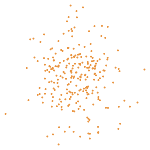
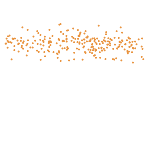
Fixed scales

diff --git a/client/regression/regression.html b/client/regression/regression.html
@@ -14,57 +14,58 @@
       </h2>
       <div class="legend-z">Next 12 Months Forecast</div>
     </div>
-    <svg style="overflow: visible;">
-      <!-- <path class="uline animated fadeIn" d="M0  {{pred.a1}}  L150 {{pred.a2}}  L150 {{pred.ra2}}  L0  {{pred.ra1}}  Z" fill="#9e9e9e"/>
-      <path class="uline animated fadeIn" d="M0  {{pred.b1}}  L150 {{pred.b2}}  L150 {{pred.rb2}}  L0  {{pred.rb1}}  Z" fill="#bababa"/>
-      <path class="uline animated fadeIn" d="M0  {{pred.c1}}  L150 {{pred.c2}}  L150 {{pred.rc2}}  L0  {{pred.rc1}}  Z" fill="#d2d2d2"/>
-      <path class="uline animated fadeIn" d="M0  {{pred.d1}}  L150 {{pred.d2}}  L150 {{pred.rd2}}  L0  {{pred.rd1}}  Z" fill="#e5e5e5"/>
-      <path class="uline animated fadeIn" d="M0  {{pred.e1}}  L150 {{pred.e2}}  L150 {{pred.re2}}  L0  {{pred.re1}}  Z" fill="#f5f5f5"/>
-
-      <path class="uline animated fadeIn" d="M0  {{pred.aa1}} L150 {{pred.aa2}} L150 {{pred.raa2}} L0  {{pred.raa1}} Z" fill="#9e9e9e"/>
-      <path class="uline animated fadeIn" d="M0  {{pred.bb1}} L150 {{pred.bb2}} L150 {{pred.rbb2}} L0  {{pred.rbb1}} Z" fill="#bababa"/>
-      <path class="uline animated fadeIn" d="M0  {{pred.cc1}} L150 {{pred.cc2}} L150 {{pred.rcc2}} L0  {{pred.rcc1}} Z" fill="#d2d2d2"/>
-      <path class="uline animated fadeIn" d="M0  {{pred.dd1}} L150 {{pred.dd2}} L150 {{pred.rdd2}} L0  {{pred.rdd1}} Z" fill="#e5e5e5"/>
-      <path class="uline animated fadeIn" d="M0  {{pred.ee1}} L150 {{pred.ee2}} L150 {{pred.ree2}} L0  {{pred.ree1}} Z" fill="#f5f5f5"/> -->
-
-      <line x1="0%"   x2="0%"   y1="5%" y2="100%" stroke="#bababa" stroke-width="1" />
-      <line x1="20%"  x2="20%"  y1="5%" y2="100%" stroke="#bababa" stroke-width="1" stroke-dasharray="1,2"/>
-      <line x1="40%"  x2="40%"  y1="5%" y2="100%" stroke="#bababa" stroke-width="1" stroke-dasharray="1,2"/>
-      <line x1="60%"  x2="60%"  y1="5%" y2="100%" stroke="#bababa" stroke-width="1" stroke-dasharray="1,2"/>
-      <line x1="80%"  x2="80%"  y1="5%" y2="100%" stroke="#bababa" stroke-width="1" stroke-dasharray="1,2"/>
-
-      <!-- <line x1="-3%" x2="100%" y1="0%"   y2="0%"   stroke="#BDBDBD" stroke-width="1" stroke-dasharray="1,2"/> -->
-      <line x1="-3%" x2="100%" y1="25%"  y2="25%"  stroke="#a4a4a4" stroke-width="1" stroke-dasharray="1,2"/>
-      <line x1="-3%" x2="100%" y1="50%"  y2="50%"  stroke="#a4a4a4" stroke-width="1" stroke-dasharray="1,2"/>
-      <line x1="-3%" x2="100%" y1="75%"  y2="75%"  stroke="#a4a4a4" stroke-width="1" stroke-dasharray="1,2"/>
-      <!-- <line x1="-3%" x2="100%" y1="100%" y2="100%" stroke="#BDBDBD" stroke-width="1" stroke-dasharray="1,2"/> -->
-
-      <path class="uline animated fadeIn"   d="M0 {{pred.upr1}} L150 {{pred.upr2}}" stroke="red"/>
-      <path class="uline animated fadeIn"   d="M0 {{pred.lwr1}} L150 {{pred.lwr2}}" stroke="red"/>
-      <image class="animated fadeIn" xlink:href="figs/{{advice.name}}" style="opacity: 0.75;" x="0" y="0"/>
-      <image class="animated fadeIn" xlink:href="figs/{{news.name}}"   style="opacity: 0.75;" x="0" y="0"/>
-      <image class="animated fadeIn" xlink:href="figs/{{media.name}}"  style="opacity: 0.75;" x="0" y="0"/>
-      <image class="animated fadeIn" xlink:href="figs/{{index.name}}"  style="opacity: 0.75;" x="0" y="0"/>
-      {{#if pred.show}}
-      <line class="uline" x1="0%"          x2="100%"         y1="{{pred.y}}%" y2="{{pred.y}}%" stroke="#6e6e6e" stroke-width="1"/>
-      <line class="sline" x1="{{pred.c}}%" x2="{{pred.c}}%"  y1="10%"          y2="100%"        stroke="#6e6e6e" stroke-width="1"/>
-      <text class="svg-text" x="103%" y="{{pred.y}}%"  fill="#808080">${{pred.value}}</text>
-      <path class="uline animated fadeIn"   d="M0 {{pred.upr}} L150 {{pred.lwr}}" stroke="#6e6e6e"  stroke-width="2"/>
-      <circle class="main-circle" cx="{{pred.c}}%" cy="{{pred.y}}%" r="3" fill="#4d4d4d"/>
-      {{/if}}
-    </svg>
-
     <svg class="svgbig"  style="overflow: visible;">
+      <svg style="overflow: visible;">
+        {{#if pred.show}}
+        <path class="uline animated fadeIn" d="M0  {{pred.ra1}}  L150 {{pred.ra2}}  L150 {{pred.a2}}  L0  {{pred.a1}}  Z" fill="#9e9e9e"/>
+        <path class="uline animated fadeIn" d="M0  {{pred.rb1}}  L150 {{pred.rb2}}  L150 {{pred.b2}}  L0  {{pred.b1}}  Z" fill="#bababa"/>
+        <path class="uline animated fadeIn" d="M0  {{pred.rc1}}  L150 {{pred.rc2}}  L150 {{pred.c2}}  L0  {{pred.c1}}  Z" fill="#d2d2d2"/>
+        <path class="uline animated fadeIn" d="M0  {{pred.rd1}}  L150 {{pred.rd2}}  L150 {{pred.d2}}  L0  {{pred.d1}}  Z" fill="#e5e5e5"/>
+        <path class="uline animated fadeIn" d="M0  {{pred.re1}}  L150 {{pred.re2}}  L150 {{pred.e2}}  L0  {{pred.e1}}  Z" fill="#f5f5f5"/>
+
+        <path class="uline animated fadeIn" d="M0  {{pred.aa1}} L150 {{pred.aa2}} L150 {{pred.raa2}} L0  {{pred.raa1}} Z" fill="#9e9e9e"/>
+        <path class="uline animated fadeIn" d="M0  {{pred.bb1}} L150 {{pred.bb2}} L150 {{pred.rbb2}} L0  {{pred.rbb1}} Z" fill="#bababa"/>
+        <path class="uline animated fadeIn" d="M0  {{pred.cc1}} L150 {{pred.cc2}} L150 {{pred.rcc2}} L0  {{pred.rcc1}} Z" fill="#d2d2d2"/>
+        <path class="uline animated fadeIn" d="M0  {{pred.dd1}} L150 {{pred.dd2}} L150 {{pred.rdd2}} L0  {{pred.rdd1}} Z" fill="#e5e5e5"/>
+        <path class="uline animated fadeIn" d="M0  {{pred.ee1}} L150 {{pred.ee2}} L150 {{pred.ree2}} L0  {{pred.ree1}} Z" fill="#f5f5f5"/>
+        {{/if}}
+        <!-- <line x1="0%"   x2="0%"   y1="5%" y2="100%" stroke="#bababa" stroke-width="1" /> -->
+        <line x1="20%"  x2="20%"  y1="5%" y2="100%" stroke="#bababa" stroke-width="1" stroke-dasharray="1,2"/>
+        <line x1="40%"  x2="40%"  y1="5%" y2="100%" stroke="#bababa" stroke-width="1" stroke-dasharray="1,2"/>
+        <line x1="60%"  x2="60%"  y1="5%" y2="100%" stroke="#bababa" stroke-width="1" stroke-dasharray="1,2"/>
+        <line x1="80%"  x2="80%"  y1="5%" y2="100%" stroke="#bababa" stroke-width="1" stroke-dasharray="1,2"/>
+
+        <!-- <line x1="-3%" x2="100%" y1="0%"   y2="0%"   stroke="#BDBDBD" stroke-width="1" stroke-dasharray="1,2"/> -->
+        <line x1="-3%" x2="100%" y1="25%"  y2="25%"  stroke="#a4a4a4" stroke-width="1" stroke-dasharray="1,2"/>
+        <line x1="-3%" x2="100%" y1="50%"  y2="50%"  stroke="#a4a4a4" stroke-width="1" stroke-dasharray="1,2"/>
+        <line x1="-3%" x2="100%" y1="75%"  y2="75%"  stroke="#a4a4a4" stroke-width="1" stroke-dasharray="1,2"/>
+        <!-- <line x1="-3%" x2="100%" y1="100%" y2="100%" stroke="#BDBDBD" stroke-width="1" stroke-dasharray="1,2"/> -->
+        {{#if pred.show}}
+        <!-- <path class="uline animated fadeIn"   d="M0 {{pred.upr1}} L150 {{pred.upr2}}" stroke="red"/>
+        <path class="uline animated fadeIn"   d="M0 {{pred.lwr1}} L150 {{pred.lwr2}}" stroke="red"/> -->
+        <image class="animated fadeIn" xlink:href="figs/{{advice.name}}" style="opacity: 0.75;" x="0" y="0"/>
+        <image class="animated fadeIn" xlink:href="figs/{{news.name}}"   style="opacity: 0.75;" x="0" y="0"/>
+        <image class="animated fadeIn" xlink:href="figs/{{media.name}}"  style="opacity: 0.75;" x="0" y="0"/>
+        <image class="animated fadeIn" xlink:href="figs/{{index.name}}"  style="opacity: 0.75;" x="0" y="0"/>
+
+        <line class="uline" x1="0%"          x2="100%"         y1="{{pred.y}}%" y2="{{pred.y}}%" stroke="#6e6e6e" stroke-width="1"/>
+        <line class="sline" x1="{{pred.c}}%" x2="{{pred.c}}%"  y1="0%"          y2="100%"        stroke="#6e6e6e" stroke-width="1"/>
+        <text class="svg-text" x="100%" y="{{pred.y}}%"  fill="#808080">${{pred.value}}</text>
+        <path class="uline animated fadeIn"   d="M0 {{pred.lwr}} L150 {{pred.upr}}" stroke="#6e6e6e"  stroke-width="2"/>
+        <circle class="main-circle" cx="{{pred.c}}%" cy="{{pred.y}}%" r="3" fill="#4d4d4d"/>
+        {{/if}}
+      </svg>
       <text x="-2%" y="107%" fill="#808080">0</text>
       <text x="17%" y="107%" fill="#808080">20</text>
       <text x="37%" y="107%" fill="#808080">40</text>
       <text x="57%" y="107%" fill="#808080">60</text>
       <text x="77%" y="107%" fill="#808080">80</text>
       <text x="95%" y="107%" fill="#808080">100</text>
-      <text x="-28%"  y="6.5%" fill="#808080">${{pred.q1}}</text>
-      <text x="-24%"  y="27%"  fill="#808080">{{pred.q2}}</text>
-      <text x="-24%"  y="52%"  fill="#808080">{{pred.q3}}</text>
-      <text x="-24%"  y="77%"  fill="#808080">{{pred.q4}}</text>
+
+      <text x="-16%" y="3%"  fill="#808080">$200</text>
+      <text x="-14%" y="27%" fill="#808080">150</text>
+      <text x="-14%" y="52%" fill="#808080">100</text>
+      <text x="-10%" y="77%" fill="#808080">50</text>
     </svg>
     <!-- <div class="legend-y">Stock Price</div> -->
     <div class="legend-x">Market Opinions</div>

diff --git a/client/regression/regression.js b/client/regression/regression.js
@@ -64,6 +64,7 @@ Template.lifequality.helpers({
       n = n+1;
       show = true;
     }
+
     if(Session.get("slider3-on")){
       m1 += stock.m_m1;
       m2 += stock.m_m2;
@@ -76,6 +77,7 @@ Template.lifequality.helpers({
       n = n+1;
       show = true;
     }
+
     if(Session.get("slider4-on")){
       m1 += stock.i_m1;
       m2 += stock.i_m2;
@@ -103,16 +105,20 @@ Template.lifequality.helpers({
     m1 = m1/n;
     m2 = m2/n;
 
-    fit_upr = m1;
-    fit_lwr = (m2 * 1) + m1;
+    fit_upr = (m2 * 1) + m1;
+    fit_lwr = m1;
 
-    var r_lwr1 = lwr_min/5;
-    var r_lwr2 = lwr_max/5;
-    var r_upr1 = upr_min/5;
-    var r_upr2 = upr_max/5;
+    var fit_lwr_pixels = 150-(fit_lwr*150);
+    var fit_upr_pixels = 150-(fit_upr*150);
+
+    var r_lwr1 = (fit_lwr_pixels-lwr_min)/5;
+    var r_lwr2 = (fit_upr_pixels-lwr_max)/5;
+
+    var r_upr1 = (fit_lwr_pixels-upr_min)/5;
+    var r_upr2 = (fit_upr_pixels-upr_max)/5;
 
     y = (m2 * c) + m1;
-    v = (stock.max * y).toFixed(2);
+    v = (200 * y).toFixed(2);
 
     if(y < 0) y = 0;
     if(c < 0) c = 0;
@@ -123,8 +129,8 @@ Template.lifequality.helpers({
     return {
       value: v, // Actual predicted value;
       y: 100 - (y*100), // Uses percentages
-      upr:  150 - (fit_upr*150), // Frome here, everything uses pixels!
-      lwr:  150 - (fit_lwr*150),
+      upr:  fit_upr_pixels, // Frome here, everything uses pixels!
+      lwr:  fit_lwr_pixels,
       upr1: upr_min,
       upr2: upr_max,
       lwr1: lwr_min,
@@ -135,30 +141,28 @@ Template.lifequality.helpers({
       q3: q3,
       q4: q4,
       q5: q5,
-      show: show
-      //
-      // ra1: 0 + 150-((x*150)),        ra2: 0 + 150-(((y*100)+x)*150),
-      // a1:  r_lwr1   + 150-((x*150)),  a2: r_lwr2  + 150-(((y*100)+x)*150),
-      // rb1: r_lwr1   + 150-((x*150)), rb2: r_lwr2  + 150-(((y*100)+x)*150),
-      // b1:  r_lwr1*2 + 150-((x*150)),  b2: r_lwr2*2 + 150-(((y*100)+x)*150),
-      // rc1: r_lwr1*2 + 150-((x*150)), rc2: r_lwr2*2 + 150-(((y*100)+x)*150),
-      // c1:  r_lwr1*3 + 150-((x*150)),  c2: r_lwr2*3 + 150-(((y*100)+x)*150),
-      // rd1: r_lwr1*3 + 150-((x*150)), rd2: r_lwr2*3 + 150-(((y*100)+x)*150),
-      // d1:  r_lwr1*4 + 150-((x*150)),  d2: r_lwr2*4 + 150-(((y*100)+x)*150),
-      // re1: r_lwr1*4 + 150-((x*150)), re2: r_lwr2*4 + 150-(((y*100)+x)*150),
-      // e1:  r_lwr1*5 + 150-((x*150)),  e2: r_lwr2*5 + 150-(((y*100)+x)*150),
-      //
+      show: show,
+      ra1: fit_lwr_pixels,              ra2: fit_upr_pixels,
+       a1: fit_lwr_pixels - r_upr2,      a2: fit_upr_pixels - r_upr1,
+      rb1: fit_lwr_pixels - r_upr2,     rb2: fit_upr_pixels - r_upr1,
+       b1: fit_lwr_pixels - (r_upr2*2),  b2: fit_upr_pixels - (r_upr1*2),
+      rc1: fit_lwr_pixels - (r_upr2*2), rc2: fit_upr_pixels - (r_upr1*2),
+       c1: fit_lwr_pixels - (r_upr2*3),  c2: fit_upr_pixels - (r_upr1*3),
+      rd1: fit_lwr_pixels - (r_upr2*3), rd2: fit_upr_pixels - (r_upr1*3),
+       d1: fit_lwr_pixels - (r_upr2*4),  d2: fit_upr_pixels - (r_upr1*4),
+      re1: fit_lwr_pixels - (r_upr2*4), re2: fit_upr_pixels - (r_upr1*4),
+       e1: fit_lwr_pixels - (r_upr2*5),  e2: fit_upr_pixels - (r_upr1*5),
       // // Second area
-      // raa1: (150-((x*150))) - 0,        raa2: (150-(((y*100)+x)*150)) - 0,
-      // aa1:  (150-((x*150))) - r_upr1,    aa2: (150-(((y*100)+x)*150)) - r_upr2,
-      // rbb1: (150-((x*150))) - r_upr1,   rbb2: (150-(((y*100)+x)*150)) - r_upr2,
-      // bb1:  (150-((x*150))) - r_upr1*2,  bb2: (150-(((y*100)+x)*150)) - r_upr2*2,
-      // rcc1: (150-((x*150))) - r_upr1*2, rcc2: (150-(((y*100)+x)*150)) - r_upr2*2,
-      // cc1:  (150-((x*150))) - r_upr1*3,  cc2: (150-(((y*100)+x)*150)) - r_upr2*3,
-      // rdd1: (150-((x*150))) - r_upr1*3, rdd2: (150-(((y*100)+x)*150)) - r_upr2*3,
-      // dd1:  (150-((x*150))) - r_upr1*4,  dd2: (150-(((y*100)+x)*150)) - r_upr2*4,
-      // ree1: (150-((x*150))) - r_upr1*4, ree2: (150-(((y*100)+x)*150)) - r_upr2*4,
-      // ee1:  (150-((x*150))) - r_upr1*5,  ee2: (150-(((y*100)+x)*150)) - r_upr2*5
+      raa1: fit_lwr_pixels,              raa2: fit_upr_pixels,
+       aa1: fit_lwr_pixels - r_lwr2,      aa2: fit_upr_pixels - r_lwr1,
+      rbb1: fit_lwr_pixels - r_lwr2,     rbb2: fit_upr_pixels - r_lwr1,
+       bb1: fit_lwr_pixels - (r_lwr2*2),  bb2: fit_upr_pixels - (r_lwr2*2),
+      rcc1: fit_lwr_pixels - (r_lwr2*2), rcc2: fit_upr_pixels - (r_lwr2*2),
+       cc1: fit_lwr_pixels - (r_lwr2*3),  cc2: fit_upr_pixels - (r_lwr2*3),
+      rdd1: fit_lwr_pixels - (r_lwr2*3), rdd2: fit_upr_pixels - (r_lwr2*3),
+       dd1: fit_lwr_pixels - (r_lwr2*4),  dd2: fit_upr_pixels - (r_lwr2*4),
+      ree1: fit_lwr_pixels - (r_lwr2*4), ree2: fit_upr_pixels - (r_lwr2*4),
+       ee1: fit_lwr_pixels - (r_lwr2*5),  ee2: fit_upr_pixels - (r_lwr2*5)
     };
   },
   advice() {

diff --git a/client/regression/regression.css b/client/regression/regression.css
@@ -17,10 +17,11 @@
   font-weight: 300;
   color: #a1a1a1;
   cursor: default;
-  position: absolute;
+  /*position: absolute;*/
   bottom: -30px;
   width: 100%;
   text-align: center;
+  margin-top: 10px;
 }
 
 .lifequality-container .selected-info{
@@ -57,16 +58,19 @@
 
 .lifequality-container {
   font-family: sans-serif;
-  width:  150px;
-  height: 150px;
+  width: 210px;
+  /*height: 150px;*/
   position: relative;
-  margin-top: 80px;
+  /*margin-top: 80px;*/
   cursor: default;
+  display: flex;
+  flex-direction: column;
+  align-items: center;
 }
 
 .lifequality-title {
-  position: absolute;
-  top: -35px;
+  /*position: absolute;
+  top: -35px;*/
   width: 100%;
 }
 
@@ -122,11 +126,12 @@
 
 .lifequality-container svg {
   overflow:  visible;
-  position: absolute;
+  /*position: absolute;
   top:  4px;
-  left: 0;
-  width:  100%;
-  height: 100%;
+  left: 0;*/
+  width:  150px;
+  height: 150px;
+  /*align-self: flex-end;*/
 }
 
 .lifequality-container img {

diff --git a/client/dotplot/dotplot.html b/client/dotplot/dotplot.html
@@ -16,10 +16,10 @@
     <div class="ubar-main"></div>
     <div class="umeter">
       <div class="um q5">$0.00</div>
-      <div class="um q4">{{prediction.q4}}</div>
-      <div class="um q3">{{prediction.q3}}</div>
-      <div class="um q2">{{prediction.q2}}</div>
-      <div class="um q1">{{prediction.q1}}</div>
+      <div class="um q4">50</div>
+      <div class="um q3">100</div>
+      <div class="um q2">150</div>
+      <div class="um q1">200</div>
       <div class="umeter-ticks">
         <div class="utick tick1">.</div>
         <div class="utick tick2">.</div>

diff --git a/client/index.html b/client/index.html
@@ -39,7 +39,7 @@
 <template name="dummy"></template>
 
 <template name="regression">
-  <div class="visualisations-row" style="margin-top: -45px;">
+  <div class="visualisations-row" style="margin-top: 0px;">
     {{>lifequality name="dis"  title="Disney"    close="97.82" diff="1.00"  prcnt="1.02"}}
     {{>lifequality name="hd"   title="Home Depot" close="51.16" diff="0.33"  prcnt="0.35"}}
     {{>lifequality name="aapl" title="Apple"     close="95.58" diff="0.33"  prcnt="0.35"}}

diff --git a/client/index.css b/client/index.css
@@ -34,7 +34,7 @@ body {
 }
 
 .content-right .visualisations {
-  height: 400px;
+  height: 450px;
   /*border-bottom: 1px solid #f0f0f0;*/
   display: flex;
   flex-direction: column;
@@ -75,5 +75,5 @@ body {
 
 .questions {
   padding-left: 18px;
-  margin-top: 40px;
+  margin-top: 10px;
 }

diff --git a/client/timeseries/series.js b/client/timeseries/series.js
@@ -116,7 +116,7 @@ Template.series.helpers({
     }
 
     y = 100 - (((advice + news + media + index)/n)*100);
-    v = (stock.max * (1 - (y/100))).toFixed(2);
+    v = (200 * (1 - (y/100))).toFixed(2);
 
     difference = ((v - close)/close)*100;
     y =  start - difference;

diff --git a/client/dotplot/dotplot.js b/client/dotplot/dotplot.js
@@ -68,7 +68,7 @@ Template.dotplot.helpers({
     }
 
     y = 100 - (((advice + news + media + index)/n)*100);
-    v = (stock.max * (1 - (y/100))).toFixed(2);
+    v = (200 * (1 - (y/100))).toFixed(2);
 
     if(y < 0) y = 0;
     if(c < 0) c = 0;

diff --git a/client/regression/svgGrid/svggrid.css b/client/regression/svgGrid/svggrid.css
@@ -3,7 +3,7 @@
 }
 
 .svgbig {
-  font-size: 11px;
-  /*border-left:   1px solid #bababa;*/
+  font-size: 10px;
+  border-left:   1px solid #bababa;
   border-bottom: 1px solid #bababa;
 }

diff --git a/client/timeseries/series.css b/client/timeseries/series.css
@@ -184,7 +184,7 @@
 
 .series-container {
   width:  250px;
-  height: 250px;
+  height: 225px;
   cursor: default;
   position: relative;
   font-family: "Raleway",sans-serif;
